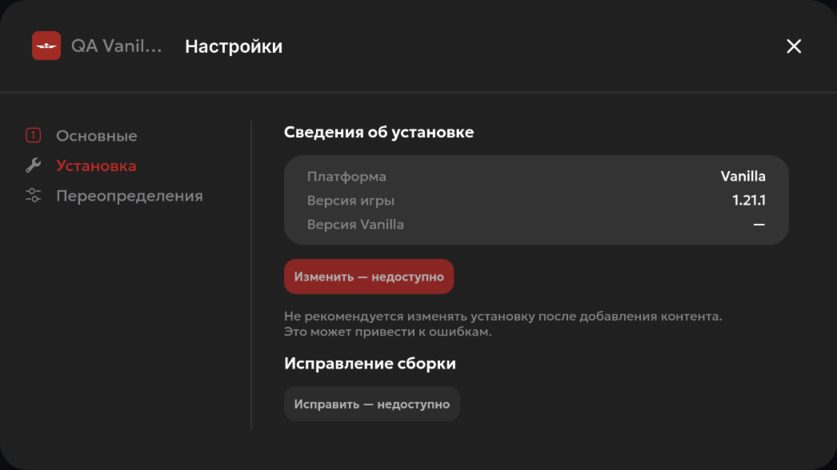
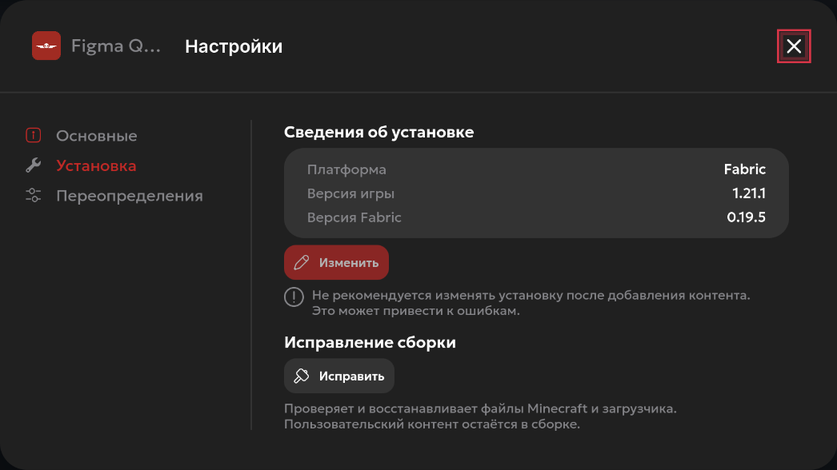
feat: verify and repair custom pack installation from Figma settings

diff --git a/apps/app-frontend/src/components/LibraryPage.vue b/apps/app-frontend/src/components/LibraryPage.vue
@@ -434,6 +434,15 @@ async function installOrPlay(instance: Instance) {
 	}
 	await operation(() => gameApi.launch(instance.id), 'Minecraft запущен')
 }
+async function repairInstallation(instance: Instance) {
+	if (instance.status !== 'ready' || instance.kind === 'official' || instanceBusy(instance.id))
+		return
+	manageDialog.value?.close()
+	await operation(
+		async () => props.operations.track(await gameApi.installGame(instance.id)),
+		'Проверка файлов запущена',
+	)
+}
 async function importPack() {
 	await operation(async () => {
 		const path = await gameApi.pickImport()
@@ -1273,40 +1282,60 @@ onUnmounted(() => {
 						class="figma-pack-install"
 						data-figma-node="3:422"
 					>
-						<strong>Сведения об установке</strong>
-						<div class="figma-pack-install-box">
-							<span
-								>Платформа<strong>{{ loaderNames[managed.loader] }}</strong></span
-							><span
-								>Версия игры<strong>{{ managed.game_version }}</strong></span
-							><span
-								>Версия {{ loaderNames[managed.loader]
-								}}<strong>{{ managed.loader_version || '—' }}</strong></span
+						<div class="figma-pack-install-group">
+							<strong>Сведения об установке</strong>
+							<div class="figma-pack-install-box">
+								<span
+									>Платформа<strong>{{ loaderNames[managed.loader] }}</strong></span
+								><span
+									>Версия игры<strong>{{ managed.game_version }}</strong></span
+								><span
+									>Версия {{ loaderNames[managed.loader]
+									}}<strong>{{ managed.loader_version || '—' }}</strong></span
+								>
+							</div>
+							<button
+								class="figma-pack-button red"
+								disabled
+								aria-label="Изменить установку — недоступно"
+								title="Смена установки с сохранением контента пока не поддерживается"
 							>
+								<img src="/figma/8950a.svg" alt="" />Изменить
+							</button>
+							<div class="figma-pack-install-warning">
+								<img src="/figma/a0728.svg" alt="" />
+								<p>
+									Не рекомендуется изменять установку после добавления контента. Это может привести
+									к ошибкам.
+								</p>
+							</div>
 						</div>
-						<button
-							class="figma-pack-button red"
-							disabled
-							title="Смена установки с сохранением контента пока не поддерживается"
-						>
-							Изменить — недоступно
-						</button>
-						<p>
-							Не рекомендуется изменять установку после добавления контента. Это может привести к
-							ошибкам.
-						</p>
-						<strong>Исправление сборки</strong>
-						<button
-							class="figma-pack-button"
-							disabled
-							title="Безопасное исправление установленной сборки пока не поддерживается"
-						>
-							Исправить — недоступно
-						</button>
-						<p>
-							Переустановка зависимостей без затрагивания пользовательского контента требует
-							отдельной проверки.
-						</p>
+						<div class="figma-pack-install-group">
+							<strong>Исправление сборки</strong>
+							<button
+								class="figma-pack-button"
+								:disabled="
+									busy ||
+									instanceBusy(managed.id) ||
+									managed.status !== 'ready' ||
+									managed.kind === 'official'
+								"
+								:title="
+									managed.kind === 'official'
+										? 'Исправление официальных сборок пока недоступно'
+										: managed.status !== 'ready'
+											? 'Сначала установите сборку'
+											: 'Проверить и восстановить файлы Minecraft и загрузчика'
+								"
+								@click="repairInstallation(managed)"
+							>
+								<img src="/figma/8c5ab.svg" alt="" />Исправить
+							</button>
+							<p>
+								Проверяет и восстанавливает файлы Minecraft и загрузчика. Пользовательский контент
+								остаётся в сборке.
+							</p>
+						</div>
 					</div>
 					<div v-else class="figma-pack-overrides">
 						<section class="figma-pack-sync-section" data-figma-node="3:648">

diff --git a/apps/app-frontend/src/figma.css b/apps/app-frontend/src/figma.css
@@ -275,8 +275,15 @@
 .figma-pack-overrides {
 	gap: 14px;
 }
+.figma-pack-install-group {
+	display: flex;
+	flex-direction: column;
+	align-items: flex-start;
+	gap: 7px;
+	width: 100%;
+}
 .figma-pack-main strong,
-.figma-pack-install > strong,
+.figma-pack-install-group > strong,
 .figma-pack-overrides > strong,
 .figma-pack-field strong,
 .figma-pack-icon > strong {
@@ -330,6 +337,18 @@
 	font:
 		400 13px/1.2 Geologica,
 		sans-serif;
+}
+.figma-pack-install-warning {
+	display: flex;
+	align-items: flex-start;
+	gap: 8px;
+}
+.figma-pack-install-warning img {
+	width: 20px;
+	height: 20px;
+}
+.figma-pack-install-warning p {
+	max-width: 449px;
 }
 .figma-pack-icon {
 	position: absolute;

diff --git a/docs/FIGMA_IMPLEMENTATION_MAP.md b/docs/FIGMA_IMPLEMENTATION_MAP.md
@@ -16,7 +16,7 @@ The page metadata lists 23 top-level frames: 16 settings windows at 837×470, fi
 | `3:104` | Java locations, 837×470 | `FigmaGlobalSettings.vue`, `JavaRuntimeDialog.vue` | `figma.css`, original search, folder and check SVGs | Separate Java 25 and 21 paths persisted and validated; detect and choose; per-pack override takes priority | Native Tauri frame compared, 2.91/255 mean RGB error; recommended runtime installation remains unavailable |
 | `3:199` | Resource management, 837×470 | `FigmaGlobalSettings.vue` | `figma.css`, original switch and trash SVGs | Displays real data directory; report and cache controls clearly disabled until backend support | Native Tauri frame compared, 3.89/255 mean RGB error; text differs to describe actual behavior |
 | `3:11` | Pack main, 837×470 | `LibraryPage.vue` | `figma.css`, exported pack SVGs | Rename, duplicate, delete | Native Tauri frame compared, 3.37/255 mean RGB error; sample name and deletion semantics differ |
-| `3:422` | Pack installation, 837×470 | `LibraryPage.vue` | `figma.css`, exported pack SVGs | Installation details; unsafe migration and repair clearly disabled | Native capture compared; behavior incomplete |
+| `3:422` | Pack installation, 837×470 | `LibraryPage.vue` | `figma.css`, original edit, warning and repair SVGs | Installation details; verified-file repair for ready custom packs; migration and official-pack repair disabled | Native crop compared at 5.08/255; corrupt QA client JAR was restored without changing checked user content |
 | `3:463` | Pack window and memory overrides, 837×470 | `LibraryPage.vue` | `figma.css`, original pack shell assets | Optional pack width/height override persists, outranks global dimensions; per-pack RAM persists; fullscreen disabled | Native comparison 4.16/255 mean RGB error; Fabric launch used pack dimensions and fell back to global dimensions after disabling |
 | `3:530` | Pack Java override, 837×470 | `LibraryPage.vue` | `figma.css`, original Java detect, choose and check SVGs | Detect the required Java major, choose an executable, save or clear the override | Native comparison 5.15/255 mean RGB error; local Java path differs from the Windows example |
 | `3:588` | Pack launch commands, 837×470 | `LibraryPage.vue` | `figma.css`, original settings shell | Read-only layout; execution controls explicitly disabled | Native comparison 4.37/255 mean RGB error; command execution remains unavailable |
@@ -66,7 +66,7 @@ The [pack content reference](figma-reference/frame-3-713.png) and [real Tauri ca
 
 The [selected-pack browser reference](figma-reference/frame-3-888.png) and [real Tauri capture](screenshots/figma-rc/mod-browser-physical-125pct.png) have a [50% overlay](figma-reference/mod-browser-overlay.png) and [difference image](figma-reference/mod-browser-diff.png). After correcting the row gap, the first two list items begin at (150, 242) and (150, 332), matching the frame. The normalized mean absolute RGB error is 4.38/255. Actual Modrinth project names, descriptions and icons differ from the Figma examples. [A separate 860×620 capture](screenshots/figma-rc/mod-browser-860-physical-125pct.png) records the smaller window.
 
-The global settings [Figma frame](figma-reference/settings-3-47.png) and [running Tauri crop](screenshots/figma-rc/settings-global-837x470.png) have a mean absolute RGB error of 4.18/255; the [difference image](figma-reference/settings-global-diff.png) shows the remaining font and antialiasing differences. The pack main [Figma frame](figma-reference/settings-3-11.png) and [running Tauri crop](screenshots/figma-rc/settings-pack-837x470.png) have 3.37/255 mean absolute RGB error. The live test pack has a different name from the Figma example, and the deletion copy reflects the existing recoverable trash behavior. [Pack installation](screenshots/figma-rc/settings-pack-install-837x470.png), [pack overrides](screenshots/figma-rc/settings-pack-overrides-837x470.png), and [resource settings](screenshots/figma-rc/settings-resources-837x470.png) are native captures with unresolved differences. These screens are not ready for a Stable visual pass.
+The global settings [Figma frame](figma-reference/settings-3-47.png) and [running Tauri crop](screenshots/figma-rc/settings-global-837x470.png) have a mean absolute RGB error of 4.18/255; the [difference image](figma-reference/settings-global-diff.png) shows the remaining font and antialiasing differences. The pack main [Figma frame](figma-reference/settings-3-11.png) and [running Tauri crop](screenshots/figma-rc/settings-pack-837x470.png) have 3.37/255 mean absolute RGB error. The live test pack has a different name from the Figma example, and the deletion copy reflects the existing recoverable trash behavior. [Pack installation](screenshots/figma-rc/settings-pack-install-837x470.png) now uses the Figma section spacing and original button/warning icons; its [Figma reference](figma-reference/settings-3-422.png), [overlay](figma-reference/settings-pack-install-overlay.png), and [difference image](figma-reference/settings-pack-install-diff.png) compare at 5.08/255 mean absolute RGB error. The sample pack name/version and explanatory text differ; migration remains disabled. [Pack overrides](screenshots/figma-rc/settings-pack-overrides-837x470.png) and [resource settings](screenshots/figma-rc/settings-resources-837x470.png) remain native captures with unresolved differences. These screens are not ready for a Stable visual pass.
 
 The resource management [Figma frame](figma-reference/frame-3-199.png) and updated [native crop](screenshots/figma-rc/settings-resources-837x470.png) have a [50% overlay](figma-reference/settings-resources-overlay.png) and [difference image](figma-reference/settings-resources-diff.png). The normalized mean absolute RGB error is 3.89/255. A [native 860×620 screenshot](screenshots/figma-rc/settings-resources-860-physical-125pct.png) confirms the form and close control remain visible. Cache deletion and extended reports remain explicitly unavailable, pending safe backend operations.
 

diff --git a/docs/TESTING.md b/docs/TESTING.md
@@ -23,6 +23,7 @@ Date: 2026-10-19. Branch: `release/1.0.0-figma-stable`. Results describe only ch
 | Arch candidate package | `makepkg --force --nodeps --nocheck` passed for 0.1.0-1; package contains binary, desktop entry, Figma icon, LICENSE and NOTICE. `pacman -U` and `pacman -R` succeeded inside an isolated `/tmp/urod-package-root` with `-dd` because that root has no system dependency database. This does not verify launch after a normal system install. |
 | [CI run 39104625372](https://github.com/Yozekkk/urod-launcher/actions/runs/39104625372) | Pass: verification, Debian package build and apt installation, Windows NSIS build, Arch package build and pacman installation. Packages still carry 0.1.0 metadata. CI did not execute the Windows app or launch installed Linux packages. |
 | [CI run 39160531660](https://github.com/Yozekkk/urod-launcher/actions/runs/39160531660) | Pass on the pushed pack synchronization commit: frontend/backend verification and the existing desktop package build matrix. The resource-limit changes are verified locally and await a new CI run after push. |
+| [CI run 39201782880](https://github.com/Yozekkk/urod-launcher/actions/runs/39201782880) | Pass on commit `ec096fe`: verification plus Debian, Windows NSIS and Arch package builds. This run predates the gallery geometry and repair commits; package runtime checks remain incomplete. |
 | Real Tauri at 1280×720 | Library, gallery, skins, dialogs, global settings and pack settings captured from the running app under [figma-rc](screenshots/figma-rc) |
 | Skin save/edit/restart | Pass: known 64×64 PNG saved; Steve/Alex changed; state remained after WebView reload |
 | Skin library full-body thumbnails | Native Tauri at 1280×720 rendered a saved 64×64 Steve PNG as a full-body card and main 3D preview; drag-and-drop of that PNG opened the add dialog. Figma `3:1012` normalized whole-frame RGB difference: 9.86/255, with different real/demo skin and account content. At 860×620 the picker, preview, edit control and navigation remained visible with no document horizontal overflow. |
@@ -44,6 +45,7 @@ Date: 2026-10-19. Branch: `release/1.0.0-figma-stable`. Results describe only ch
 | Window dimensions in native Tauri | Pass: UI saved 1024×576; the native snapshot returned the same pair. Launching Fabric 1.21.1 produced a child process whose argv contained `--width 1024 --height 576`; a Minecraft window opened and stop succeeded. [Figma-sized capture](screenshots/figma-rc/settings-window-memory-837x470.png). |
 | Per-pack window override | Pass: pack settings saved 1280×720 while global settings remained 1024×576. Fabric's actual process argv contained the pack pair; a Minecraft window opened and stop succeeded. Disabling the pack switch stored null/null and a subsequent launch argv contained the global pair. [Figma-sized native capture](screenshots/figma-rc/settings-pack-window-837x470.png). |
 | Per-pack Java detection, persistence and launch | Pass: native `Обнаружить` returned Java 21 for the Fabric 1.21.1 QA pack. Saving `/usr/bin/java` persisted it in `core_instances`; disabling and saving the switch cleared `java_path` to null. A separate path `/usr/lib/jvm/java-21-openjdk/bin/java` was then saved through the UI; the actual Fabric process used it as argv[0], opened a Minecraft 1.21.1 window, and stopped successfully. [Native capture](screenshots/figma-rc/settings-pack-java-837x470.png). |
+| Repair button on ready custom pack | Pass in native Tauri: the Figma `3:422` button started a background `install_game` job on the Fabric 1.21.1 QA pack; the job completed without error and the pack stayed `ready`. A second run followed deliberate truncation of the isolated QA cache's 26 MB `1.21.1.jar` to 1024 bytes; the job downloaded 26,836,906 verified bytes and restored the exact pre-corruption SHA-256. SHA-256 of the QA pack's mod, resource pack, shader pack and data files was unchanged after both runs. [Native window](screenshots/figma-rc/settings-pack-install-repair-1280x720-physical-125pct.png) and [837×470 crop](screenshots/figma-rc/settings-pack-install-837x470.png). Official-pack repair and changing installation remain disabled; this does not prove rollback on network failure. |
 | Pack launch commands and help | Native captures of Figma `3:588` and `3:629` compare at 4.37 and 2.58/255 mean RGB difference. Shell command inputs are disabled; this is a visual check, not a command-execution pass. |
 | Pack synchronization panel | Native Figma `3:648` capture compared at 6.98/255. Five unavailable controls are disabled; the `Глобальные настройки` button navigated to `#/settings` and rendered the real settings page without horizontal overflow. Synchronization itself was not exercised because it is unimplemented. |
 | Resource limits and backups | Figma `3:236` native capture compared at 4.49/255. The download limit was changed from 6 to 4 through the UI, saved in `snapshot`, and read back as 4 after restarting Tauri. The backup button opened/created the local `backups` directory without a native error. A temporary symlink from that QA directory to `/tmp` was rejected by the native command, then removed and the original directory restored. At 860×620, the controls remained visible without document horizontal overflow. The independent write limit remains disabled. |

diff --git a/docs/CHANGELOG.md b/docs/CHANGELOG.md
@@ -9,9 +9,10 @@
 - Enabled in-place PNG replacement in the Figma edit-skin dialog. The native command validates the new texture, stages the replacement, preserves the skin id, rolls back on catalog-write failure, and clears account selection when the appearance changes. Original Figma dialog icons replace text symbols.
 - Refreshed the account preview when an active local skin is deleted and kept the deletion result visible when the library becomes empty.
 - Restored the exact Figma gallery control positions and 190 px sort selector, and used the original Figma search icon for extra filters. The control no longer overlaps Sort at 1240×820 or clips against the scroll rail at narrow and maximized widths.
+- Enabled the Figma pack-installation repair action for ready custom packs. It rechecks Minecraft and loader files in the background; a native QA run restored a deliberately corrupted client JAR while leaving checked mods, resource packs, shaders and pack data unchanged. The panel now uses the original edit, warning and repair icons and Figma section spacing.
 - Transferred the pack content manager and selected-pack Modrinth browser from Figma frames `3:713` and `3:888`, retaining live installed content and real catalog data. Added shader and resource pack search, compatibility checks and installation through the existing backend.
 - Fixed direct links to installed shaders and resource packs so their Modrinth type is recovered from project metadata even when the URL has no type parameter.
-- Added Figma-based global and pack settings windows. Global RAM, per-pack RAM, renaming and duplication were exercised in the native app. Unsupported sync, repair, fullscreen and command controls are explicitly unavailable.
+- Added Figma-based global and pack settings windows. Global RAM, per-pack RAM, renaming and duplication were exercised in the native app. Unsupported sync, official-pack repair, fullscreen and command controls are explicitly unavailable.
 - Added the real Minecraft log to the selected-pack sidebar, with bounded log reads, common credential redaction, searchable severity filters and a compact drawer at narrow window sizes. Corrected offline log capture so the placeholder token `0` no longer corrupts version numbers.
 - Matched global settings frames `3:280`, `3:339`, `3:367` and `3:402` against native captures. Window width and height now persist as a validated pair and reach the Minecraft process as numeric arguments; a Fabric game window opened with a configured pair.
 - Added per-pack window dimension overrides from Figma `3:463`, including validation, persistence, priority over global dimensions and inheritance when the override is disabled. Both paths were exercised with a real Fabric launch.
